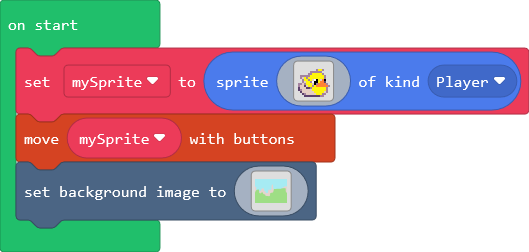
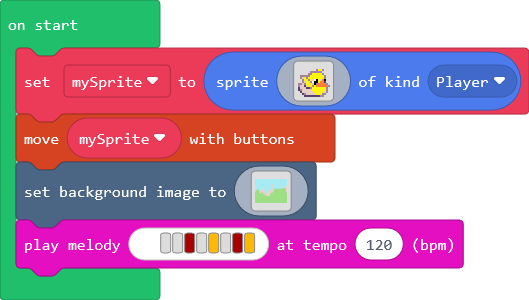
Update main.blocks, main.ts

diff --git a/main.ts b/main.ts
@@ -139,3 +139,4 @@ d 7 7 7 7 7 7 7 7 7 7 7 7 7 7 7 7 7 7 7 7 d d d d d d d d d d d d 7 7 7 7 7 d d 
 7 7 7 7 7 7 7 7 7 7 7 7 7 7 7 7 7 7 7 7 7 7 7 7 7 7 7 7 7 7 7 7 7 7 7 7 7 7 7 7 7 7 7 7 7 7 7 7 7 7 7 7 7 7 7 7 7 7 7 7 7 7 7 7 7 7 7 7 7 7 7 7 7 7 7 7 7 7 7 7 7 7 7 7 7 7 7 7 7 7 7 7 7 7 7 7 7 7 7 7 7 7 7 7 7 7 7 7 7 7 7 7 7 7 7 7 7 7 7 7 7 7 7 7 7 7 7 7 7 7 7 7 7 7 7 7 7 7 7 7 7 7 7 7 7 7 7 7 7 7 7 7 7 7 7 7 7 7 7 7 
 7 7 7 7 7 7 7 7 7 7 7 7 7 7 7 7 7 7 7 7 7 7 7 7 7 7 7 7 7 7 7 7 7 7 7 7 7 7 7 7 7 7 7 7 7 7 7 7 7 7 7 7 7 7 7 7 7 7 7 7 7 7 7 7 7 7 7 7 7 7 7 7 7 7 7 7 7 7 7 7 7 7 7 7 7 7 7 7 7 7 7 7 7 7 7 7 7 7 7 7 7 7 7 7 7 7 7 7 7 7 7 7 7 7 7 7 7 7 7 7 7 7 7 7 7 7 7 7 7 7 7 7 7 7 7 7 7 7 7 7 7 7 7 7 7 7 7 7 7 7 7 7 7 7 7 7 7 7 7 7 
 `)
+music.playMelody("- - C5 - A - C5 A ", 120)
